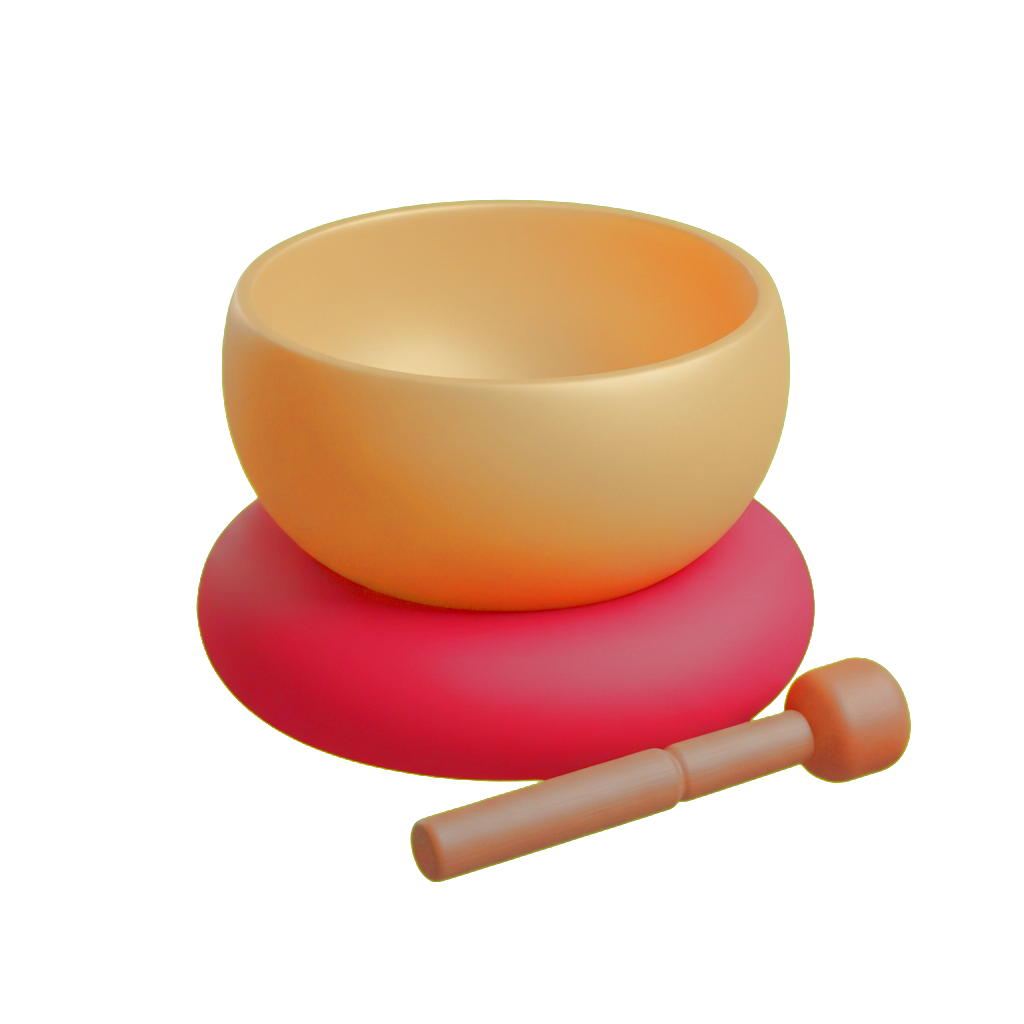
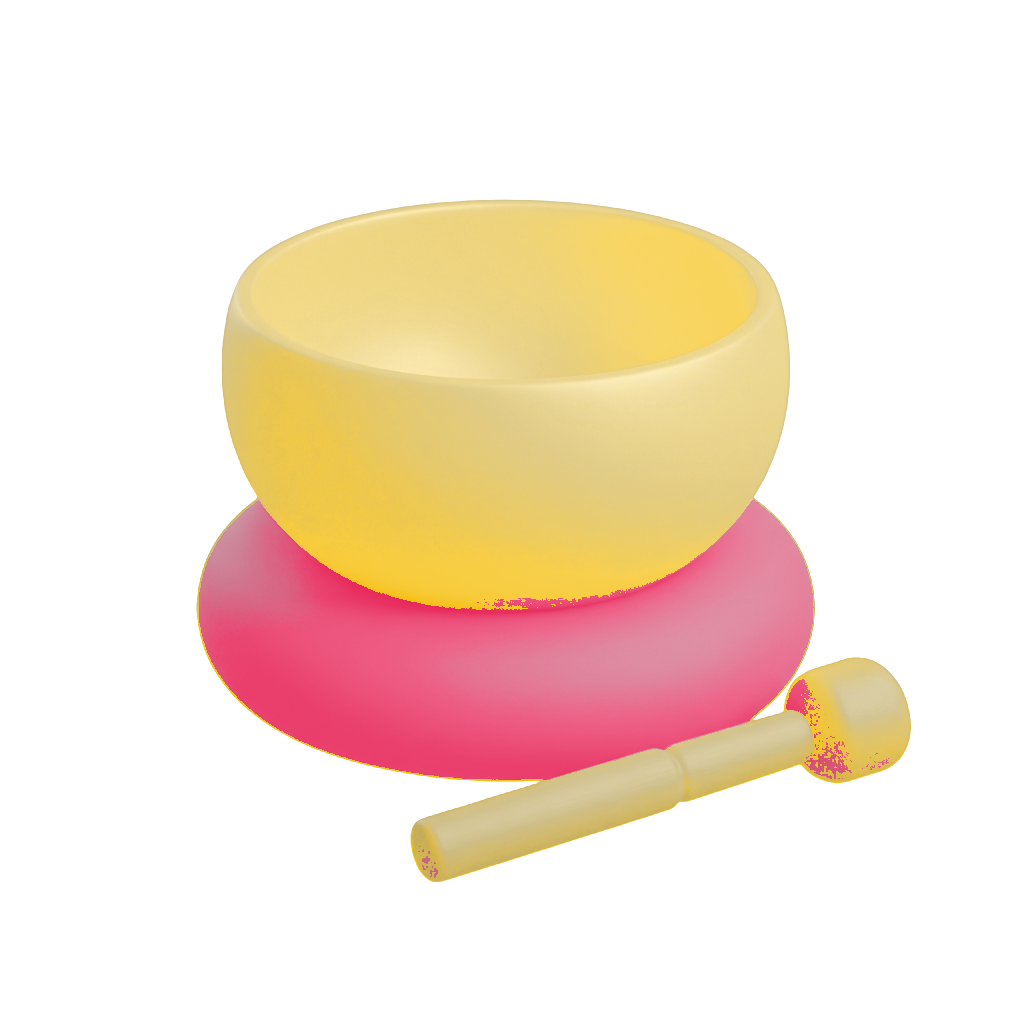
싱잉볼을 노랗게 · 색 점을 오브제 밑으로 · 겹침과 타원을 잡는다
형: 「싱잉볼만 다시 만들어 노란색으로. 지금은 누런 검은 노란색이야」
    「저거 색상 버튼 더 밝게 만들고, 염주랑 목탁 둘 다에서 위치 옮기고,
     밑에 겹치는 버그 수정」
    「숫자랑 그릇 크기 이격시켜」 「왤케 붙었냐 저 위가 이격 좀 시키라고」
    「설명할 땐 공덕 한자 없애고, 공덕 채우면 연꽃 하나 준다고 하고,
     하루에 하나 주는 거라고 설명. 쪽지 초공양에 씁니다는 지우고」
    「공덕이 1씩 올라가면 + 는 지워야 할 듯. 기망이야 이건」
    「이거 아직 안 고쳤냐」(○ 가 타원)

■ 싱잉볼
「누렇다」는 색상이 아니라 밝기와 채도의 일이었다. 놋쇠(색상 30~40도,
56%)를 46도로 모아 노랑으로 세우고 채도와 밝기를 올렸다. 검붉던
방석(350도, 27%)도 밝은 장밋빛으로 — 방석이 어두우면 그릇까지 죽는다.

■ 색 점
숫자 밑에 있으면 **무엇의** 색을 고르는지 안 보인다. 오브제 바로 밑으로.
55% 로 흐려 두던 것도 걷었다 — 흐리게 하는 대신 테로 가른다.

■ ○ 단추
세로 flex 안에서 너비가 늘어나 타원이 됐다. align-items 로 막고 있었는데
판마다 정렬이 달라 새는 자리가 있었다. 크기를 못박았다(폰·웹 둘 다 42×42 검산).

■ 공덕 알림
한 타에 1 이 붙는데 「+49」라고 뜨면 방금 마흔아홉을 받은 것처럼 읽힌다.
+ 를 걷고 쌓인 수만 적는다.

■ ⓘ
「공덕을 다 채우면 연꽃 한 송이 · 하루에 한 송이까지」. 펴는 동안에는
「功 德」 글자가 물러난다 — 같은 자리에서 둘이 겹치면 설명이 제목에 묻힌다.

diff --git a/src/app/hip.css b/src/app/hip.css
@@ -3427,3 +3427,52 @@ html[data-theme="light"] {
   .hip-opts > *:not(summary) { margin-top: 0; }
   .hip-opts .hip-chips { margin-bottom: 4px; justify-content: center; }
 }
+
+/* 아래 염주와 글이 겹치던 것 — 판 안쪽 바닥을 더 비운다.
+   형: 「밑에 겹치는 버그 수정」 */
+@media (min-width: 0px) {
+  .hip-screen-scroll .hip-screen-mid,
+  .hip-screen .hip-screen-mid {
+    padding-bottom: calc(env(safe-area-inset-bottom, 0px) + 120px);
+  }
+  /* 살갗 점은 오브제에 붙어 있다 */
+  .hip-obj-foot { margin-top: 16px; }
+  /* 숫자와 그릇 크기 알약 사이를 벌린다 — 형: 「숫자랑 그릇 크기 이격시켜」 */
+  .hip-chips-tight { margin-top: 26px; margin-bottom: 14px; }
+}
+
+/* 설명을 펴면 「功 德」 글자는 물러난다 —
+   형: 「설명할 땐 공덕 한자 없애고」. 같은 자리에서 둘이 겹쳐 읽히면
+   설명이 제목에 묻힌다. */
+@media (min-width: 0px) {
+  .hip-me-merit-k:has(.hip-info[open]) {
+    font-size: 0;
+    letter-spacing: 0;
+  }
+  .hip-me-merit-k:has(.hip-info[open]) .hip-info {
+    font-size: 12px;
+    margin-left: 0;
+    display: block;
+  }
+  .hip-info > div p { line-height: 1.9; }
+
+  /* 머리와 갈래 탭이 붙었다 — 형: 「왤케 붙었냐, 저 위가 이격 좀 시키라고」 */
+  .hip-lanes { margin-top: 18px; }
+  .hip-screen-top { padding-bottom: 4px; }
+}
+
+/* ○ 단추가 아직도 타원이다 — 형: 「이거 아직 안 고쳤냐」.
+   세로 flex 안에서 너비가 늘어나는 것을 align-items 로 막고 있었는데,
+   판마다 정렬이 달라 새는 자리가 있었다. **크기를 못박는다.** */
+@media (min-width: 0px) {
+  .hip-only-go,
+  .hip-back {
+    width: 42px !important;
+    min-width: 42px;
+    max-width: 42px;
+    height: 42px !important;
+    flex: 0 0 auto !important;
+    align-self: center !important;
+    box-sizing: border-box;
+  }
+}

diff --git a/src/app/moktak/HipMoktak.tsx b/src/app/moktak/HipMoktak.tsx
@@ -260,8 +260,6 @@ export default function HipMoktak({
           )}
           {/* 살갗 — 오브제 바로 밑. 고르는 것과 보이는 것이 붙어 있어야
               고른 티가 바로 난다 */}
-          {tab === "moktak" && <div className="hip-obj-foot">{dots}</div>}
-
           {tab === "moktak" && (
           <button
             onClick={touch}
@@ -296,6 +294,11 @@ export default function HipMoktak({
             </span>
           </button>
           )}
+          {/* 살갗 — 오브제 **바로 아래**.
+              형: 「염주랑 목탁 둘 다에서 위치 옮기고」.
+              숫자 밑에 있으면 무엇의 색을 고르는 것인지 안 보인다.
+              고르는 것과 보이는 것이 붙어 있어야 고른 티가 바로 난다. */}
+          {tab === "moktak" && <div className="hip-obj-foot">{dots}</div>}
 
           {/* 백팔 격자는 걷었다 —
               형: 「저 그리드 없애고 그 자리 더 활용해. 그리드 격자 필요 없다」.

diff --git a/src/app/moktak/page.tsx b/src/app/moktak/page.tsx
@@ -151,10 +151,13 @@ function SkinDots({
           onClick={() => onPick(k.id)}
           aria-label={k.name}
           aria-pressed={pick === k.id}
-          className={`h-[14px] w-[14px] rounded-full border transition-all ${
+          /* 형: 「저거 색상 버튼 더 밝게 만들고」.
+             55% 로 흐려 두었더니 흰 바탕에서 무슨 색인지 안 보였다.
+             흐리게 하는 대신 **테로** 가른다 — 색은 늘 또렷하게 */
+          className={`h-[17px] w-[17px] rounded-full transition-all ${
             pick === k.id
-              ? "scale-110 border-gold"
-              : "border-ink-3 opacity-55 hover:opacity-90"
+              ? "scale-115 ring-2 ring-[#ef7ba4] ring-offset-2 ring-offset-transparent"
+              : "opacity-90 ring-1 ring-black/10 hover:opacity-100"
           }`}
           style={{ background: k.dot }}
         />

diff --git a/src/components/MeritToast.tsx b/src/components/MeritToast.tsx
@@ -92,7 +92,10 @@ export default function MeritToast() {
           style={{ animation: "mt-pop 1.4s ease-out forwards" }}
         >
           <span className="rounded-full border border-gold/45 bg-ink-2/90 px-3.5 py-1.5 font-serif text-[15px] leading-none text-gold shadow-[0_8px_26px_rgba(0,0,0,0.5)] backdrop-blur">
-            +{gain.toLocaleString("ko-KR")}
+            {/* 형: 「공덕이 1씩 올라가면 + 는 지워야 할 듯. 기망이야 이건」.
+                한 타에 1 이 붙는데 「+49」라고 뜨면 방금 마흔아홉을 받은
+                것처럼 읽힌다. 쌓인 수를 그냥 적는다 */}
+            {gain.toLocaleString("ko-KR")}
             <span className="ml-1.5 text-[10.5px] tracking-[0.2em] text-gold-soft">
               공덕
             </span>

diff --git a/src/app/settings/HipMe.tsx b/src/app/settings/HipMe.tsx
@@ -239,7 +239,14 @@ export default function HipMe({
                   <em>1</em>
                 </i>
               </span>
-              <p>쪽지 · 초공양에 씁니다</p>
+              {/* 형: 「설명 너무 좋고. 설명할 땐 공덕 한자 없애고, 공덕
+                  채우면 연꽃 하나 준다고 하고, 하루에 하나 주는 거라고 설명.
+                  쪽지 초공양에 씁니다는 지우고」 */}
+              <p>
+                공덕을 다 채우면 연꽃 한 송이
+                <br />
+                하루에 한 송이까지
+              </p>
             </div>
           </details>
         </div>

diff --git a/src/app/globals.css b/src/app/globals.css
@@ -808,3 +808,7 @@ html[data-focus="1"] #scroll-box {
 /* touch */
 
 /* touch */
+
+/* touch */
+
+/* touch */
